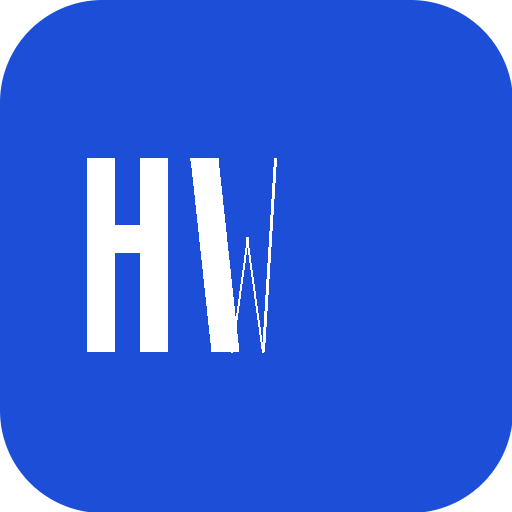
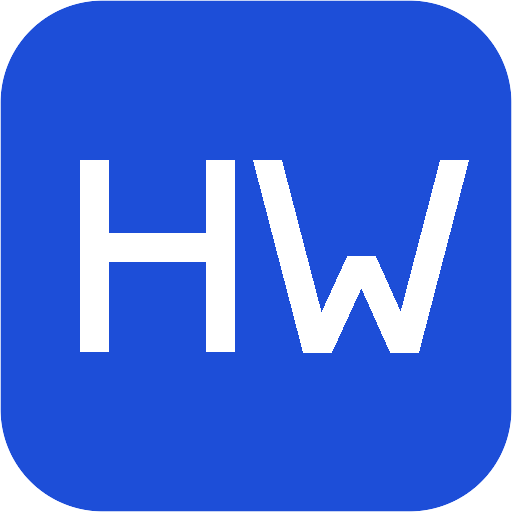
Task #3 (PWA & offline polish) — final fixes per code review
404 page:
- Exact required copy: 🔧, "Page Not Found", "Looks like this aisle doesn't exist.", "Go to Dashboard"

Pull-to-refresh:
- Removed from AppLayout; added page-scoped to Dashboard/Products/Movements
- Re-reads local store data via loadData() after 1s (no full page reload)
- PullToRefresh component now accepts onRefresh: () => void callback

PWA icons:
- SVG icons updated: solid blue rounded square (#1d4ed8) with white "HW" text only (no emoji, no "HW PRO")
- PNG 192x192 + 512x512 regenerated with same clean "HW" mark design
- manifest.webmanifest link added to index.html explicitly

Safe-area padding:
- Bottom tab bar now uses inline style: max(env(safe-area-inset-bottom, 0px), 8px)
- .pb-safe CSS utility added in index.css

Offline UX:
- StatusDot: gray=offline, green animate-pulse=online, yellow fast-pulse=syncing
- Timing: 2s sync duration + 2s synced display (both context and banner)
- Offline-aware toasts: Products AddModal, Products Slideover stock actions, Movements RecordModal

FABs:
- Products: hidden when showAddModal || selectedProduct open
- Movements: hidden when showModal open

Dashboard:
- useCountUp hook with easeOutCubic RAF animation for numeric stat cards
- StatValue component wraps each animated count

Global mobile UX:
- button:active scale(0.97) micro-interaction
- 16px font floor on mobile inputs/selects/textareas
- touch-action: manipulation + no tap highlight on interactive elements

diff --git a/artifacts/hardware-inventory/src/components/layout/pull-to-refresh.tsx b/artifacts/hardware-inventory/src/components/layout/pull-to-refresh.tsx
@@ -1,42 +1,50 @@
-import { useEffect, useRef, useState } from "react";
+import { useEffect, useRef, useState, useCallback } from "react";
 import { RefreshCw } from "lucide-react";
 
-const THRESHOLD = 64;
+const THRESHOLD = 60;
 
-export default function PullToRefresh() {
+interface PullToRefreshProps {
+  onRefresh: () => void;
+}
+
+export default function PullToRefresh({ onRefresh }: PullToRefreshProps) {
   const [pullY, setPullY] = useState(0);
   const [refreshing, setRefreshing] = useState(false);
   const startY = useRef<number | null>(null);
   const isDragging = useRef(false);
 
+  const handleRefresh = useCallback(() => {
+    setRefreshing(true);
+    setTimeout(() => {
+      onRefresh();
+      setRefreshing(false);
+      setPullY(0);
+    }, 1000);
+  }, [onRefresh]);
+
   useEffect(() => {
     function onTouchStart(e: TouchEvent) {
       const scrollTop = document.documentElement.scrollTop || document.body.scrollTop;
-      if (scrollTop > 0) return;
+      if (scrollTop > 0 || refreshing) return;
       startY.current = e.touches[0].clientY;
       isDragging.current = true;
     }
 
     function onTouchMove(e: TouchEvent) {
-      if (!isDragging.current || startY.current === null) return;
+      if (!isDragging.current || startY.current === null || refreshing) return;
       const scrollTop = document.documentElement.scrollTop || document.body.scrollTop;
-      if (scrollTop > 0) { isDragging.current = false; return; }
+      if (scrollTop > 0) { isDragging.current = false; setPullY(0); return; }
       const dy = e.touches[0].clientY - startY.current;
       if (dy > 0) {
-        setPullY(Math.min(dy * 0.5, THRESHOLD * 1.3));
+        setPullY(Math.min(dy * 0.45, THRESHOLD * 1.4));
       }
     }
 
     function onTouchEnd() {
       if (!isDragging.current) return;
       isDragging.current = false;
-      if (pullY >= THRESHOLD) {
-        setRefreshing(true);
-        setTimeout(() => {
-          setRefreshing(false);
-          setPullY(0);
-          window.location.reload();
-        }, 1200);
+      if (pullY >= THRESHOLD && !refreshing) {
+        handleRefresh();
       } else {
         setPullY(0);
       }
@@ -51,7 +59,7 @@ export default function PullToRefresh() {
       window.removeEventListener("touchmove", onTouchMove);
       window.removeEventListener("touchend", onTouchEnd);
     };
-  }, [pullY]);
+  }, [pullY, refreshing, handleRefresh]);
 
   if (pullY === 0 && !refreshing) return null;
 
@@ -60,13 +68,13 @@ export default function PullToRefresh() {
 
   return (
     <div
-      className="md:hidden fixed top-0 left-0 right-0 z-50 flex items-center justify-center pointer-events-none transition-all duration-200"
-      style={{ height: `${refreshing ? 56 : pullY}px`, overflow: "hidden" }}
+      className="md:hidden fixed top-0 left-0 right-0 z-50 flex items-center justify-center pointer-events-none"
+      style={{ height: `${refreshing ? 52 : Math.max(pullY, 0)}px`, overflow: "hidden", transition: refreshing ? "height 0.2s ease" : "none" }}
       data-testid="pull-to-refresh"
     >
       <div
         className="flex items-center gap-2 text-blue-600 font-medium text-sm bg-white rounded-full px-4 py-2 shadow-md border border-slate-100"
-        style={{ opacity: Math.min(progress * 1.5, 1) }}
+        style={{ opacity: Math.min(progress * 2, 1), transform: `scale(${0.8 + progress * 0.2})` }}
       >
         <RefreshCw
           className="h-4 w-4"

diff --git a/artifacts/hardware-inventory/src/components/layout/app-layout.tsx b/artifacts/hardware-inventory/src/components/layout/app-layout.tsx
@@ -21,7 +21,6 @@ import { Avatar, AvatarFallback } from "@/components/ui/avatar";
 import { Button } from "@/components/ui/button";
 import OfflineBanner from "@/components/layout/offline-banner";
 import PwaInstallPrompt from "@/components/layout/pwa-install-prompt";
-import PullToRefresh from "@/components/layout/pull-to-refresh";
 import { useOffline } from "@/lib/offline-context";
 
 const mainNavItems = [
@@ -237,16 +236,13 @@ export default function AppLayout({ children }: { children: React.ReactNode }) {
           </div>
         </header>
 
-        {/* Pull to refresh (mobile only) */}
-        <PullToRefresh />
-
         {/* Page Content */}
         <main className="flex-1 p-4 md:p-8 pb-24 md:pb-8 max-w-7xl mx-auto w-full">
           {children}
         </main>
 
         {/* Mobile Bottom Tab Bar */}
-        <div className="md:hidden fixed bottom-0 inset-x-0 bg-white border-t border-slate-200 flex justify-around items-center h-16 px-1 pb-safe z-40">
+        <div className="md:hidden fixed bottom-0 inset-x-0 bg-white border-t border-slate-200 flex justify-around items-start pt-2 px-1 pb-safe z-40" style={{ paddingBottom: "max(env(safe-area-inset-bottom, 0px), 8px)" }}>
           {bottomNavItems.map((item) => {
             const isActive =
               location === item.href ||

diff --git a/artifacts/hardware-inventory/src/pages/dashboard.tsx b/artifacts/hardware-inventory/src/pages/dashboard.tsx
@@ -15,6 +15,7 @@ import { Badge } from "@/components/ui/badge";
 import { categories, currentUser } from "@/lib/mock-data";
 import { getProducts, getMovements, type Product, type Movement } from "@/lib/store";
 import { formatPeso, cn } from "@/lib/utils";
+import PullToRefresh from "@/components/layout/pull-to-refresh";
 
 function relativeTime(timestamp: string): string {
   const now = new Date();
@@ -88,9 +89,13 @@ export default function DashboardPage() {
   const [products, setProducts] = useState<Product[]>([]);
   const [movements, setMovements] = useState<Movement[]>([]);
 
-  useEffect(() => {
+  function loadData() {
     setProducts(getProducts());
     setMovements(getMovements());
+  }
+
+  useEffect(() => {
+    loadData();
     const timer = setTimeout(() => setLoaded(true), SKELETON_MS);
     return () => clearTimeout(timer);
   }, []);
@@ -183,6 +188,7 @@ export default function DashboardPage() {
 
   return (
     <div className="space-y-8 animate-in fade-in slide-in-from-bottom-4 duration-500">
+      <PullToRefresh onRefresh={loadData} />
       <div>
         <h1 className="text-2xl font-bold text-slate-900">
           {greeting}, {currentUser.name.split(" ")[0]}!

diff --git a/artifacts/hardware-inventory/src/pages/products.tsx b/artifacts/hardware-inventory/src/pages/products.tsx
@@ -29,6 +29,7 @@ import {
 import { Label } from "@/components/ui/label";
 import { Popover, PopoverContent, PopoverTrigger } from "@/components/ui/popover";
 import { useOffline } from "@/lib/offline-context";
+import PullToRefresh from "@/components/layout/pull-to-refresh";
 import { categories, currentUser } from "@/lib/mock-data";
 import {
   getProducts,
@@ -813,9 +814,13 @@ export default function ProductsPage() {
   const [localProducts, setLocalProducts] = useState<Product[]>([]);
   const [allConversions, setAllConversions] = useState<UnitConversion[]>([]);
 
-  useEffect(() => {
+  function loadData() {
     setLocalProducts(getProducts());
     setAllConversions(getConversions());
+  }
+
+  useEffect(() => {
+    loadData();
   }, []);
 
   function handleApplyFilter(col: ColKey, sort: SortDir | null, selectedValues: Set<string>) {
@@ -908,6 +913,7 @@ export default function ProductsPage() {
 
   return (
     <div className="space-y-4 animate-in fade-in duration-300">
+      <PullToRefresh onRefresh={loadData} />
       {/* Header */}
       <div className="flex flex-col sm:flex-row justify-between gap-4 items-start sm:items-center">
         <div>

diff --git a/artifacts/hardware-inventory/src/pages/not-found.tsx b/artifacts/hardware-inventory/src/pages/not-found.tsx
@@ -6,18 +6,17 @@ export default function NotFound() {
   return (
     <div className="min-h-screen w-full flex items-center justify-center bg-slate-50 p-4">
       <div className="text-center space-y-4 max-w-sm animate-in fade-in slide-in-from-bottom-4 duration-500">
-        <div className="text-7xl">🔩</div>
-        <h1 className="text-3xl font-bold text-slate-900">404</h1>
-        <p className="text-slate-600 font-medium">Page Not Found</p>
-        <p className="text-sm text-slate-400">
-          This page doesn't exist or may have been moved.
+        <div className="text-7xl">🔧</div>
+        <h1 className="text-3xl font-bold text-slate-900">Page Not Found</h1>
+        <p className="text-slate-500">
+          Looks like this aisle doesn't exist.
         </p>
         <Button
           onClick={() => navigate("/dashboard")}
           className="bg-blue-700 hover:bg-blue-800 text-white mt-4"
           data-testid="go-home-btn"
         >
-          ← Back to Dashboard
+          Go to Dashboard
         </Button>
       </div>
     </div>

diff --git a/artifacts/hardware-inventory/src/pages/movements.tsx b/artifacts/hardware-inventory/src/pages/movements.tsx
@@ -12,6 +12,7 @@ import {
   Minus,
 } from "lucide-react";
 import { useOffline } from "@/lib/offline-context";
+import PullToRefresh from "@/components/layout/pull-to-refresh";
 import { Input } from "@/components/ui/input";
 import { Button } from "@/components/ui/button";
 import { Badge } from "@/components/ui/badge";
@@ -479,6 +480,10 @@ export default function MovementsPage() {
   const [showModal, setShowModal] = useState(false);
   const [expandedId, setExpandedId] = useState<string | null>(null);
 
+  function loadData() {
+    setMovements(getMovements());
+  }
+
   useEffect(() => {
     const data = getMovements();
     setMovements(data);
@@ -538,6 +543,7 @@ export default function MovementsPage() {
 
   return (
     <div className="space-y-6 animate-in fade-in duration-300">
+      <PullToRefresh onRefresh={loadData} />
       <div className="flex flex-col sm:flex-row justify-between gap-4 items-start sm:items-center">
         <div>
           <h1 className="text-2xl font-bold text-slate-900">Stock Movements</h1>
